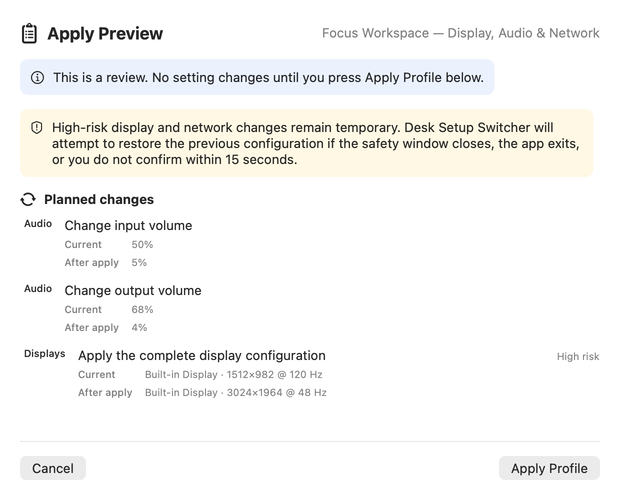
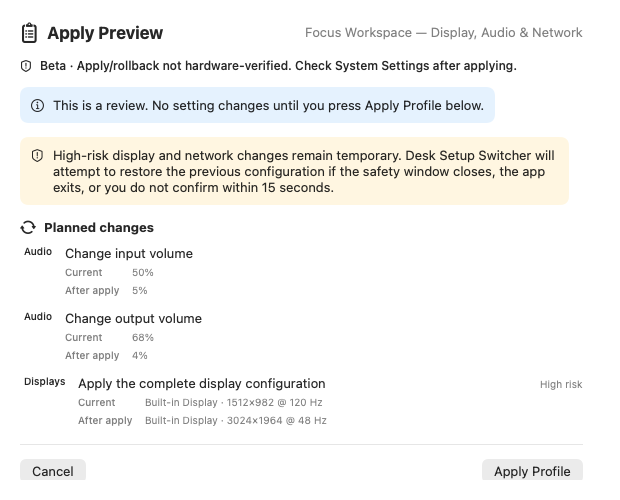
Refresh public media from Apply Preview source

diff --git a/docs/RELEASE-ASSET-PROVENANCE.md b/docs/RELEASE-ASSET-PROVENANCE.md
@@ -6,10 +6,10 @@ DEBUG-only synthetic UI fixtures. No installed personal profile, live Capture,
 Apply, permission request, UI automation, or display/audio/network mutation was
 used to create them.
 
-Capture, Edit, and Review were regenerated on 2026-07-20 from the exact
+Capture, Edit, and Review were regenerated on 2026-07-21 from the exact
 committed application-source tree
-`f27c3f285d21b454cbd7326f704c45f29023048c` (`Harden release storage and
-history audit`). Three filtered DEBUG-only offscreen evidence tests passed: one
+`bc3ec58e2f1f13e3c47be3e879fed957564012cd` (`Simplify and qualify Apply
+Preview flow`). Three filtered DEBUG-only offscreen evidence tests passed: one
 selected English empty-tray fixture, one selected English Display-editor
 fixture, and the three English/Korean Apply Preview fixtures. The evidence
 write paths were enabled only for those runs.
@@ -19,7 +19,7 @@ temporary profile store, no system snapshot adapters, and a confirmation
 closure that performs no action. The logical-size PNGs were visually inspected,
 normalized, and stripped of host ICC and ancillary metadata before being
 retained with their AX records under
-`docs/evidence/public-release-assets/f27c3f2/`. The AX records reject concrete
+`docs/evidence/public-release-assets/bc3ec58/`. The AX records reject concrete
 `/Users/` paths and password text; the retained source set also passed the
 release audit's credential, path, private-network, and device-identity scan.
 These properties establish the data-source boundary; they do not prove
@@ -30,15 +30,16 @@ installed-window behavior, real hardware support, Apply, or rollback.
 The renderer host was an Apple M5 Mac running macOS 26.5.2 (`25F84`). Xcode
 26.6 (`17F113`) was installed; the active `swift` driver reported Apple Swift
 6.3.3. The attached offscreen AppKit/SwiftUI windows were never ordered front.
-Their Retina backing scale produced raw 2× PNGs: `736×520` Capture, `1800×1136`
-Edit, `1240×1000` standard Review, and `1040×720` minimum Review. Those raw
-files retained host Display P3 or sRGB profiles and were not committed.
+The current offscreen renderer produced logical-size raw PNGs: `368×260`
+Capture, `900×568` Edit, `620×500` standard Review, and `520×360` minimum
+Review. Those raw files retained the host display or sRGB profile and were not
+committed; normalization removed that metadata before promotion.
 
 From a clean checkout whose `HEAD` equals the recorded source commit, the three
 DEBUG test invocations were:
 
 ```sh
-test "$(git rev-parse HEAD)" = "f27c3f285d21b454cbd7326f704c45f29023048c"
+test "$(git rev-parse HEAD)" = "bc3ec58e2f1f13e3c47be3e879fed957564012cd"
 
 DESK_SETUP_WRITE_TRAY_EVIDENCE=1 \
 DESK_SETUP_TRAY_EVIDENCE_DIR="$RAW_ROOT/capture" \
@@ -103,13 +104,13 @@ source PNG SHA-256 values in `sources.sha256` exactly.
 | Public asset | Source and transformation | SHA-256 | Synthetic and verification boundary |
 | --- | --- | --- | --- |
[15 lines of base64/hex data omitted]
 
 The public PNG and video normalization was performed with FFmpeg 8.1.2. All
 three screenshots and the video are current deterministic outputs of
@@ -171,7 +172,7 @@ scripts/build-social-preview.sh
 make verify-public-assets
 ```
 
-The first script defaults to the evidence directory pinned to `f27c3f2`. The
+The first script defaults to the evidence directory pinned to `bc3ec58`. The
 verifier requires `ffmpeg`, `ffprobe`, `ruby`, `sips`, `shasum`, and standard
 macOS command-line tools. Missing media prerequisites are failures, not skipped
 checks. It verifies exact geometry, expected alpha, absence of embedded ICC
@@ -184,9 +185,13 @@ checksum manifests are mandatory, must contain exactly their declared files,
 and are checked from their respective base directories.
 
 This automated evidence does not OCR image pixels or certify complete
-accessibility. On 2026-07-20, the three public screenshots and social preview
-were visually compared with their named sources at original resolution; the
-Capture content was centered, Edit remained coherent without unintended
-clipping, and Review exposed its warning, changes, and actions. English and
-Korean AX records were retained, but full VoiceOver certification is excluded
-from the initial public-beta gate and is not claimed.
+accessibility. On 2026-07-21, all five normalized source images were visually
+compared side by side with the preceding pinned sources at matching viewports,
+and the three public screenshots, social preview, and representative demo
+frames were inspected. Capture remained centered, Edit remained coherent
+without unintended clipping, standard Review exposed the Beta boundary,
+warnings, changes, and actions, and minimum-size Korean large text began at the
+top with the rest reachable through the tested scroll sequence. English and
+Korean AX boundary records were retained; offscreen SwiftUI descendants may
+remain collapsed into `AXGroup`, so complete focused-control observation and
+full VoiceOver certification are not claimed.

diff --git a/docs/COMPLETION-CRITERIA.md b/docs/COMPLETION-CRITERIA.md
@@ -16,7 +16,7 @@ This ledger separates the current open-source public-beta candidate from histori
 | Preceding native UI structural audit | [Native UI structural reliability audit](UI-STRUCTURAL-RELIABILITY-AUDIT-2026-07-17.md) records the earlier selective-safe-area boundary, window cancellation/liveness audit, adaptive minimum workflow, focus policy, synthetic evidence, and focused 52-test regression gate |
 | Current integrated local release-controls gate | `make verify` passed on 2026-07-21 with 4,736 deterministic checks/assertions: 507 app checks (183 XCTest cases, 323 default Swift Testing cases across 39 suites, and one isolated native `NSPopover` case in a 40th Swift Testing suite) plus 4,229 release-tooling assertions (351 base release-policy, 659 remote-controls v1 policy/normalizer, 178 remote-controls v2 lifecycle-policy, 69 remote-controls v2 collector, 407 publication-approval policy, 1,106 external-beta/inventory/lineage/template policy, 129 collector-wrapper mock, 71 draft-reconciler mock, 246 artifact-restoration mock, 496 approved-publication mock, 306 legacy-workflow-containment mock, and 211 shell/workflow guard assertions); lint/localization policy; Swift Debug/Release; universal Xcode Debug/Release; Analyze; DMG/checksum; mounted metadata/resources/`x86_64 arm64`; and ad-hoc/no-Developer-ID classification |
 | Current public-history/asset audit | The preceding complete, non-shallow history and tracked image/assets passed the 39-assertion public-release audit for high-confidence credentials, concrete personal home paths, embedded asset metadata, rejected templates in release evidence, and commit/tag author, committer, and tagger email metadata. The audit must be rerun after the current source and regenerated-media commits before it is current evidence. This scoped result does not replace repository-secret settings, pixel OCR, or operator review |
-| Current local public surface | The user-first README, English/Korean guides, profile-schema and adapter-contract references, launch copy, and bilingual static site structure pass their local checks. The tracked screenshot/demo/social-preview set still represents the preceding committed Apply Preview and must be regenerated from the new source commit before the public-surface gate is current again. Project code adds no analytics, client tracking, project-set cookies, account, database, object storage, service binding, or download; disclosed provider operations and two pinned tab-scoped router guards remain part of the hosting boundary |
+| Current local public surface | The user-first README, English/Korean guides, profile-schema and adapter-contract references, launch copy, bilingual static site, and exact-commit screenshot/demo/social-preview set pass `make verify-public-surface`. Project code adds no analytics, client tracking, project-set cookies, account, database, object storage, service binding, or download; disclosed provider operations and two pinned tab-scoped router guards remain part of the hosting boundary |
 | Current public-beta support boundary | The planned initial target is Apple Silicon with a macOS 14.0 deployment target. The current host evidence is Apple Silicon on macOS 26.5.2, not Sonoma runtime evidence; at least one exact-candidate clean lifecycle report on Apple Silicon/macOS 14 Sonoma is required before claiming macOS 14 support. x86_64 cross-build/package evidence is retained only as an unverified convenience slice; physical Intel is not claimed |
 | Current public-beta release boundary | The effective remote tag workflow still exposes an unsigned-publication path. Developer ID + hardened runtime + timestamp, same-candidate signed DMG, accepted notarization, stapling/validation, app-and-DMG Gatekeeper checks, protected release environment, immutable releases, checksum/SBOM/attestation/redownload evidence, itemized clean lifecycle, three external clean installs, zero P0/P1 sign-offs, site deployment/canonical-link verification, remote repository protections, and explicit publication approval remain mandatory and pending |
 | Current remote-controls audit | [Remote release controls audit](REMOTE-RELEASE-CONTROLS-AUDIT-2026-07-18.md) read back the exact unsafe workflow/default-branch SHA, zero tags/Releases/rulesets/environments, empty repository secret/variable name lists, unprotected `master`, disabled immutable releases/private reporting, sole-maintainer reviewer constraint, Actions policy, metadata/support gaps, and a no-tag containment/PR/rollback sequence. Authenticated read-only rechecks on 2026-07-20 and 2026-07-21 confirmed the same remote blockers; they were not configured v2 phase gates, inspected no credential value, and made no remote change |
@@ -161,7 +161,7 @@ No test evidence contains a real SSID, exact location, IP host address, credenti
 - [x] The current integrated local release-controls candidate passed 4,736 non-live deterministic checks/assertions in one `make verify` run on 2026-07-21: 507 app checks (183 XCTest, 323 default Swift Testing cases across 39 suites, and one isolated native popover case in a 40th Swift Testing suite) plus 4,229 release-tooling assertions (351 base release-policy, 659 remote-controls v1 policy/normalizer, 178 remote-controls v2 lifecycle-policy, 69 remote-controls v2 collector, 407 publication-approval policy, 1,106 external-beta/inventory/lineage/template policy, 129 collector-wrapper mock, 71 draft-reconciler mock, 246 artifact-restoration mock, 496 approved-publication mock, 306 legacy-workflow-containment mock, and 211 shell/workflow guard assertions); lint/localization policy, Swift Debug/Release, universal Xcode Debug/Release, Analyze, package/checksum, mounted metadata/resources/architectures, and ad-hoc/no-Developer-ID classification passed.
[1 lines of base64/hex data omitted]
 - [ ] Complete-history/current-asset public-release audit passes locally with 39 synthetic assertions after the source and regenerated-media commits. The preceding audit passed, but it is not current evidence for the new tree. Passing this scoped audit does not replace protected remote settings, secret scanning, pixel OCR, private vulnerability reporting, or operator review.
-- [ ] The bilingual static site, rendered-HTML/privacy assertions, pinned dependency audit, eight-file public-asset manifest, 11-file source/AX evidence manifest, synthetic screenshot/demo/social-preview checks, English/Korean guides, profile schema, adapter contract, launch copy, and provenance record pass for the current source. The preceding pinned media still verifies byte-for-byte but predates the Apply Preview change; regenerate and inspect it from the committed source before checking this row. The exact-Node/locked-install/advisory CI job remains unpushed, and no remote site or canonical URL was created.
+- [x] The bilingual static site, rendered-HTML/privacy assertions, pinned dependency audit, eight-file public-asset manifest, 11-file source/AX evidence manifest, synthetic screenshot/demo/social-preview checks, English/Korean guides, profile schema, adapter contract, launch copy, and provenance record pass for exact committed application source `bc3ec58e2f1f13e3c47be3e879fed957564012cd`. The exact-Node/locked-install/advisory CI job remains unpushed, and no remote site or canonical URL was created.
 - [x] The preceding default unit and mock integration suites passed locally with 215 tests: 112 XCTest and 103 Swift Testing cases; six explicit opt-in cases skipped and no live setting change was part of the run.
 - [x] The preceding header/editor tree's `make lint` and `make build` passed.
[1 lines of base64/hex data omitted]
@@ -194,7 +194,7 @@ No test evidence contains a real SSID, exact location, IP host address, credenti
 - [x] The planned initial public-beta target is Apple Silicon and the deployment target is macOS 14.0. The x86_64 slice is cross-built but physically unverified and unsupported for the initial beta; this build metadata is not Sonoma runtime evidence.
 - [ ] At least one of the three external exact-candidate lifecycle reports passes on Apple Silicon/macOS 14 Sonoma before macOS 14 support is claimed.
 - [x] Full VoiceOver certification is excluded and no VoiceOver claim is made. It is not a public-beta gate; keyboard behavior, accessibility names/values, localizable English/Korean copy, and non-color state cues remain required.
-- [ ] Apply Preview uses one review-to-decision scroll sequence with a localized, non-color text-and-shield Beta status. It states that Apply and rollback are not hardware-verified and asks the user to check System Settings afterward; decision actions follow the review content, Escape remains cancel, and Apply has no default Return shortcut. Check this only after committed source/evidence, synchronized public media, and the synchronized package baseline exist.
+- [x] Apply Preview uses one review-to-decision scroll sequence with a localized, non-color text-and-shield Beta status. It states that Apply and rollback are not hardware-verified and asks the user to check System Settings afterward; decision actions follow the review content, Escape remains cancel, and Apply has no default Return shortcut. Committed source `bc3ec58`, synchronized offscreen/public media, and the verified development-package baseline carry this evidence without claiming hardware execution.
 - [x] Commit `8016f73` adds a strict final-pre-tag remote-controls policy engine, value-free read-only collector, offline ready-state fixtures, and fail-closed mutation/mocked-API coverage. The integrated non-live gate passed 131 policy/normalizer tests with 659 assertions, 79 collector-wrapper assertions, and 81 shell guard assertions; the command remains separate from deterministic `make verify` network execution.
 - [x] Commit `f922434` makes the local signed-candidate workflow retain its exact nine assets in a successful attempt-1 origin run before draft mutation. A separate draft dispatch binds the origin run/artifact ID/archive digest, verifies the exact archive, files, signed candidate, and attestations before mutation, and has deterministic additive-only recovery for exact metadata, byte-identical existing assets, missing-only upload, interruption/resume, and final redownload. Its integrated evidence passed 51 draft-reconciler, 234 artifact-restoration, and 141 shell/workflow guard assertions. This is committed local/mock evidence only; it does not claim a protected credentialed run or remote deployment.
 - [x] The v2 remote-controls lifecycle adds separate `final-pre-tag` and `pre-publication` phases, exact three-workflow/two-environment inventory, exactly two named and distinct successful check runs/jobs from one pinned CI run/check suite, actor and admin-token ownership, manual-record freshness/digests, direct annotated-tag/draft boundaries, and value-free durable evidence. Its 47 policy tests passed 178 assertions and its 14 collector tests passed 69 assertions. The checked-in operational policy remains `configured:false`, so no live `gh` request or remote mutation occurred.
@@ -208,8 +208,8 @@ No test evidence contains a real SSID, exact location, IP host address, credenti
 - [ ] The complete repository/candidate-draft-workflow/CI-workflow/publication-workflow/operator/reviewer/publisher/approval identity is recorded in the authoritative policy, committed with all three workflow anchors, merged to `master`, and exact-commit CI passes; that clean effective commit then passes `make verify-remote-controls` before tag creation, and separate read-only Settings evidence proves the environment administrator-bypass setting.
 - [ ] Protected Developer ID/hardened-runtime/timestamp signing, signed DMG, notarization acceptance, stapling/validation, and app-and-DMG Gatekeeper checks pass on one canonical build with unchanged signed executable, architecture-labelled `arm64` and `x86_64` CodeDirectory hashes, designated requirement, entitlements, and resources.
 - [ ] Checksum, SBOM, all three subject-specific attestation bundles, exact nine-asset redownload verification, protected release environment/secrets, branch/tag protections, immutable releases, and private vulnerability reporting are configured and verified.
-- [ ] The static bilingual site, synthetic demo assets, English/Korean user guidance, profile-schema reference, adapter contract, launch copy, and provenance record are synchronized and locally verified against the current supported capability matrix. The documents and site structure are present, but the public media refresh is pending. Deployment, approved canonical URLs, clean-session link checks, and a bounded manual browser/final bilingual-copy pass remain publication work.
-- [ ] Capture, Edit, and Review synthetic screenshots are regenerated from the exact committed current application-source HEAD, the dependent demo/social assets and both manifests are rebuilt, and visual, privacy, geometry, opacity, profile, ancillary-metadata, and media-format verification passes locally. The currently tracked set comes from `f27c3f285d21b454cbd7326f704c45f29023048c` and predates the Apply Preview change. These remain synthetic offscreen assets, not installed-window or hardware evidence.
+- [x] The static bilingual site, synthetic demo assets, English/Korean user guidance, profile-schema reference, adapter contract, launch copy, and provenance record are synchronized and locally verified against the current supported capability matrix. Deployment, approved canonical URLs, clean-session link checks, and a bounded manual browser/final bilingual-copy pass remain publication work.
+- [x] Capture, Edit, and Review synthetic screenshots were regenerated from exact committed application-source HEAD `bc3ec58e2f1f13e3c47be3e879fed957564012cd`, the dependent demo/social assets and both manifests were rebuilt, and visual, privacy, geometry, opacity, profile, ancillary-metadata, media-format, and unexpected-evidence-tree verification passed locally. These remain synthetic offscreen assets, not installed-window or hardware evidence.
 - [ ] The exact final DMG passes browser download with a real extracted-DMG quarantine attribute, checksum/final-DMG-provenance verification, and Gatekeeper open without Open Anyway.
 - [ ] The exact final candidate passes clean first launch and launch-at-login default-off evidence.
 - [ ] The exact final candidate passes upgrade with schema-1 data/selection/backup/consent preservation.

diff --git a/docs/SUPPORT-MATRIX.md b/docs/SUPPORT-MATRIX.md
@@ -11,7 +11,7 @@
 - **Unsupported:** intentionally omitted; the app reports an item-level reason.
 - **Pending:** implementation or required evidence is incomplete.
 
-“Unit verified,” “mock verified,” and “live-read verified” must never be shortened to “hardware verified.” As of 2026-07-21, **no live setting mutation is hardware verified**. The current integrated local release-controls candidate passed 4,736 non-live deterministic checks/assertions in `make verify`: 507 app checks (183 XCTest + 323 default Swift Testing cases across 39 suites + one isolated native popover case in a 40th Swift Testing suite) plus 4,229 release-tooling assertions (351 base release-policy + 659 remote-controls v1 policy/normalizer + 178 remote-controls v2 lifecycle-policy + 69 remote-controls v2 collector + 407 publication-approval policy + 1,106 external-beta/inventory/lineage/template policy + 129 collector-wrapper mock + 71 draft-reconciler mock + 246 artifact-restoration mock + 496 approved-publication mock + 306 legacy-workflow-containment mock + 211 shell/workflow guard assertions). All build/Analyze stages and unsigned development-package verification passed. The preceding 39-assertion public-history/asset audit must be rerun after the current source and media commits. The DMG was not installed, launched, signed for distribution, or published. The inventory/lineage and external-beta results are synthetic contract tests, not actual history review or tester evidence. The bilingual site and guides remain local; the previously verified synthetic media predates the current Apply Preview and is pending regeneration before the public-surface gate is current again. The earlier P2 pass retains its separate 461-check and 39-fixture/79-artifact evidence. Comprehensive assistive-technology certification is not claimed or required for the public-beta gate; keyboard behavior, accessibility names/values, and non-color cues remain source/test requirements. A separate 2026-07-20 opt-in read-only baseline passed all 506 then-current app cases, including Display, Audio, Network, Input, ConditionContext, and ApplyLivePreparation group/base paths, on Apple Silicon/macOS 26.5.2 without setting mutation. It did not itemize actual ColorSync-profile, input-volume, or exact service-IPv4 field presence/read on that host, so those item-level claims and all apply/rollback paths remain mock-only; TCC, login-at-boot, live Keychain write, and setting mutation also remain unproved.
+“Unit verified,” “mock verified,” and “live-read verified” must never be shortened to “hardware verified.” As of 2026-07-21, **no live setting mutation is hardware verified**. The current integrated local release-controls candidate passed 4,736 non-live deterministic checks/assertions in `make verify`: 507 app checks (183 XCTest + 323 default Swift Testing cases across 39 suites + one isolated native popover case in a 40th Swift Testing suite) plus 4,229 release-tooling assertions (351 base release-policy + 659 remote-controls v1 policy/normalizer + 178 remote-controls v2 lifecycle-policy + 69 remote-controls v2 collector + 407 publication-approval policy + 1,106 external-beta/inventory/lineage/template policy + 129 collector-wrapper mock + 71 draft-reconciler mock + 246 artifact-restoration mock + 496 approved-publication mock + 306 legacy-workflow-containment mock + 211 shell/workflow guard assertions). All build/Analyze stages and unsigned development-package verification passed. The current bilingual site, guides, and exact-commit synthetic media pass the local public-surface gate. The preceding 39-assertion public-history/asset audit must still be rerun after the media commit. The DMG was not installed, launched, signed for distribution, or published. The inventory/lineage and external-beta results are synthetic contract tests, not actual history review or tester evidence. The earlier P2 pass retains its separate 461-check and 39-fixture/79-artifact evidence. Comprehensive assistive-technology certification is not claimed or required for the public-beta gate; keyboard behavior, accessibility names/values, and non-color cues remain source/test requirements. A separate 2026-07-20 opt-in read-only baseline passed all 506 then-current app cases, including Display, Audio, Network, Input, ConditionContext, and ApplyLivePreparation group/base paths, on Apple Silicon/macOS 26.5.2 without setting mutation. It did not itemize actual ColorSync-profile, input-volume, or exact service-IPv4 field presence/read on that host, so those item-level claims and all apply/rollback paths remain mock-only; TCC, login-at-boot, live Keychain write, and setting mutation also remain unproved.
 
 ## Tray Surface v2 evidence
 
@@ -79,7 +79,7 @@
 | Release signing identity inventory | The synthetic import lifecycle requires exactly one valid codesigning identity in the ephemeral Keychain and an exact match to the reviewed Developer ID Application label; extra-valid, missing-match, and malformed-count inventories fail closed and remove the temporary signing directory | This is deterministic mock evidence only. No real certificate, Developer ID identity, or credentialed signing run was used |
 
 | Approval-bound publication | A closed-schema approval validator and exact-ID publisher passed 407 policy and 496 publisher mock assertions. The helper verifies A→B direct history and exact evidence bytes, fresh remote-controls/Settings evidence, actor and token owner, approval chronology, exact candidate/draft/nine assets/attestations/tag, both named approval-commit CI jobs with distinct integer identities, and immutable-release state immediately before permitting one exact `draft:false`, `prerelease:true`, `make_latest:false` PATCH, then re-downloads the public Release and all assets | The workflow is unpushed, unconfigured, and unrun. Any `HUP`, `INT`, `QUIT`, `TERM`, cancellation, host loss, incomplete log, or ordinary failure after a PATCH attempt is explicitly incident-only, not retry evidence. No Release was changed or published |
-| Local public surface | User-first README, English/Korean guides, schema/adapter references, launch copy, and bilingual static site structure are present. The tracked screenshots, silent captioned demo, deterministic social preview, and manifests still verify as the prior `f27c3f285d21b454cbd7326f704c45f29023048c` set, but they predate the current Apply Preview and are pending regeneration from its committed source | The tracked closed-schema launch state remains `holding` with no download URL. Project code adds no analytics, client tracking, project-set cookies, account, database, object storage, service binding, or download. Hosting-provider operations and two pinned tab-scoped router guards are disclosed. The CI change is unpushed; current-source asset verification, deployment, clean-link verification, and final manual browser/copy review remain pending |
+| Local public surface | User-first README, English/Korean guides, schema/adapter references, launch copy, bilingual static site, and three synthetic screenshots regenerated from exact committed source `bc3ec58e2f1f13e3c47be3e879fed957564012cd` pass `make verify-public-surface`. The rebuilt silent bilingual-captioned demo and deterministic social preview are pinned by eight-file public and 11-file source/AX manifests; public PNGs are opaque, profile-free, and critical-chunk-only, and unexpected source-evidence files now fail verification | The tracked closed-schema launch state remains `holding` with no download URL. Project code adds no analytics, client tracking, project-set cookies, account, database, object storage, service binding, or download. Hosting-provider operations and two pinned tab-scoped router guards are disclosed. The CI change is unpushed; deployment, clean-link verification, and final manual browser/copy review remain pending |
 | Planned beta hardware | Apple Silicon with a macOS 14.0 deployment target | Current runtime evidence is Apple Silicon/macOS 26.5.2. One of the three exact-candidate external lifecycle reports must pass on Apple Silicon/macOS 14 Sonoma before that support claim is made. The x86_64 convenience slice is cross-built but physically unverified; Intel is not initially supported |
 | Accessibility boundary | Localizable English/Korean copy, keyboard behavior, accessibility names/values, and non-color cues remain required | Full VoiceOver certification is explicitly excluded and is not a publication gate or a claimed capability |
 | Canonical release pipeline | Developer ID, hardened runtime, timestamp, signed DMG, accepted notarization, staple/validation, app-and-DMG Gatekeeper checks, checksum, SBOM, provenance/attestation, and redownload verification are mandatory | Protected release environment/secrets, remote repository settings, private vulnerability reporting, canonical site/release publication, three external clean-install beta reports, and explicit publication approval remain pending |

diff --git a/CHANGELOG.md b/CHANGELOG.md
@@ -12,7 +12,7 @@ All notable changes will be documented here. The project follows Keep a Changelo
 - A dedicated public-surface verification command and CI job that install the lockfile-pinned site graph with lifecycle scripts disabled, check dependency advisories, render and test both holding and canonical-download states, rebuild the tracked state, and verify every declared public/source release asset without deploying anything. One closed-schema record controls release rendering and accepts only the exact `v0.1.0` GitHub Release URL; a separate strict record binds the approved production origin.
 - A user-first public surface for the bounded **Capture → Edit → Review & Apply** flow: rewritten root README, English/Korean user guides, profile-schema and adapter-contract references, launch copy, and a public-surface readiness audit.
 - A locally verified bilingual static demo site with no project analytics, client tracking, project-set cookies, account, database, object storage, or download; the disabled release state remains in place until the complete maintainer-approved distribution gate passes.
-- A provenance-reviewed pipeline for synthetic Capture, Edit, and Review screenshots, a silent captioned 37-second demo, deterministic social preview, mandatory eight-file public and 11-file source/AX checksum manifests, and critical-PNG-chunk, metadata, stream, caption, and sensitive-string verification. The tracked media still comes from committed source `f27c3f285d21b454cbd7326f704c45f29023048c` and must be regenerated after the current Apply Preview source is committed.
+- Provenance-reviewed synthetic Capture, Edit, and Review screenshots regenerated from exact committed application source `bc3ec58e2f1f13e3c47be3e879fed957564012cd`; a rebuilt silent captioned 37-second demo and deterministic social preview; mandatory eight-file public and 11-file source/AX checksum manifests; critical-PNG-chunk, metadata, stream, caption, sensitive-string, and unexpected-evidence-tree verification; and complete source/transformation/licensing records. The Review media and bilingual captions expose the Beta hardware-verification boundary without claiming Apply or rollback execution.
 - A public-release history and asset audit that rejects shallow/incomplete or replacement/grafted history, high-confidence credential patterns, concrete personal home paths, sensitive metadata in historical image/icon blobs, and disallowed commit/tag author, committer, or tagger email metadata without printing identity values. Annotated-tag traversal starts at every ref and follows nested tag objects. Already-public legacy identity metadata is not rewritten and passes only through a reviewed exact-commit-ID allowlist containing no names or addresses; every other commit and annotated tag, including synthetic fixtures, requires a GitHub noreply identity. The unpushed local CI definition is configured to run the same audit with full history.
 - Descriptor-bound profile storage/import file access with validated filenames, owner/type/size checks, symlink and non-regular-file rejection, identity-stable reads, and identity-bound permission changes and quarantine. Managed writes now keep staging, commit, rollback, cleanup, and directory sync relative to one verified parent-directory descriptor; use exclusive rename for a missing destination and atomic swap plus guarded rollback for an existing destination; and deterministically cover ancestor, regular-leaf, and symlink-leaf replacement races without following or deleting the displaced object.
 - Public-beta policy and community surfaces covering support, governance, compatibility, security reporting, contribution, privacy, initial Apple Silicon scope, internal-only Swift library products, and the release authority boundary.

diff --git a/docs/ASSET-LICENSES.md b/docs/ASSET-LICENSES.md
@@ -7,7 +7,7 @@
 | `Assets/AppIcon.svg` | Original project artwork by GGULBAE contributors | 2026-07-11 | MIT | Monitor, desk, and manual switch controls drawn as original vector geometry; no third-party asset or logo |
 | `Assets/AppIcon.icns` | Mechanically rendered from `AppIcon.svg` | 2026-07-11 | MIT | Generated by `scripts/generate-app-icon.sh` using macOS `sips` and `iconutil` |
 | `site/public/app-icon.svg` | Exact public-site copy of `Assets/AppIcon.svg` | 2026-07-18 | MIT | Byte identity is enforced by `scripts/verify-public-assets.sh` |
-| `docs/evidence/public-release-assets/f27c3f2/` | Synthetic Capture, Edit, and Apply Preview fixtures plus AX boundary records generated by three DEBUG-only offscreen evidence tests from exact source commit `f27c3f285d21b454cbd7326f704c45f29023048c`; host metadata mechanically removed | 2026-07-20 | MIT project content; Apple platform terms for in-context SF Symbols | Five English/Korean standard/minimum PNG/AX pairs; no concrete home path or embedded profile; Capture, save, Apply, and rollback were not run |
+| `docs/evidence/public-release-assets/bc3ec58/` | Synthetic Capture, Edit, and Apply Preview fixtures plus AX boundary records generated by three DEBUG-only offscreen evidence tests from exact source commit `bc3ec58e2f1f13e3c47be3e879fed957564012cd`; host metadata mechanically removed | 2026-07-21 | MIT project content; Apple platform terms for in-context SF Symbols | Five English/Korean standard/minimum PNG/AX pairs; no concrete home path or embedded profile; Capture, save, Apply, and rollback were not run |
 | `site/public/screenshots/capture.png` | Mechanically normalized from the exact-commit English empty-tray synthetic fixture | 2026-07-20 | MIT project content; Apple platform terms for in-context SF Symbols | Opaque, profile-free `368×260` derivative with only critical PNG chunks; Capture was not invoked |
 | `site/public/screenshots/edit.png` | Mechanically normalized from the exact-commit English Display-editor synthetic fixture | 2026-07-20 | MIT project content; Apple platform terms for in-context SF Symbols | Opaque, profile-free `900×568` derivative with only critical PNG chunks; no save or hardware operation occurred |
 | `site/public/screenshots/review.png` | Mechanically normalized from the exact-commit English initial Apply Preview synthetic fixture | 2026-07-20 | MIT project content; Apple platform terms for in-context SF Symbols | Opaque, profile-free `620×500` derivative with only critical PNG chunks; wording promises a rollback attempt, not a guarantee; Apply and rollback were not run |

diff --git a/docs/ROADMAP.md b/docs/ROADMAP.md
@@ -248,7 +248,7 @@ Baseline completed locally:
 - Fail closed on missing/non-integral profile schema versions, nil included ColorSync values, and snapshot capability-group mismatches without blocking unrelated snapshot groups. Preserve only the explicit schema 0→1 migration.
 - Remove runtime coordinate collection/cache and its Settings refresh surface. Location authorization now exists only to read the current Wi-Fi SSID during an explicit Capture; imported location conditions remain dormant schema data.
 - Keep the final Apply decision honest without complicating the flow: Apply Preview uses one review-to-decision scroll sequence with a localized text-and-shield Beta status stating that Apply and rollback are not hardware-verified and that users must check System Settings afterward. Decision actions follow the review content, Escape remains the cancel shortcut, and Apply is not a default Return-key action.
-- Prepare the user-facing public surface locally: rewritten README, English/Korean user guides, profile-schema and adapter-contract references, launch copy, bilingual static site, and an exact-commit public-media pipeline. The currently tracked Capture/Edit/Review screenshots, silent captioned demo, deterministic social preview, eight-file public manifest, 11-file source/AX manifest, and provenance still bind source `f27c3f285d21b454cbd7326f704c45f29023048c`; regenerate them from the committed Apply Preview source before marking the current surface synchronized.
+- Prepare the user-facing public surface locally: rewritten README, English/Korean user guides, profile-schema and adapter-contract references, launch copy, bilingual static site, and public media regenerated from exact committed application source `bc3ec58e2f1f13e3c47be3e879fed957564012cd`. The Capture/Edit/Review screenshots, silent bilingual-captioned demo, deterministic social preview, eight-file public manifest, 11-file source/AX manifest, and asset provenance are synchronized and locally verified; superseded unmanifested evidence was removed and the verifier now rejects unexpected source-evidence files.
 - Verify the site's privacy boundary locally: no project analytics, client tracking, project-set cookies, account, database, object storage, service binding, or download; disclose hosting-provider aggregate operations and the two pinned tab-scoped vinext router guards instead of claiming that no provider processing exists.
 - Keep the holding site and its provenance-reviewed media in a dedicated CI gate: exact Node version, lockfile-only install with lifecycle scripts disabled, dependency-advisory audit, site build/lint/rendered-output tests, and complete public/source asset verification. The job is prepared locally and remains unpushed/unproven on the effective default branch.
 - Keep the site renderer's launch switch data-only: closed-schema tracked metadata permits only `holding` with no release URL or `published` with the exact canonical `v0.1.0` GitHub Release URL. The immutable Release notes are self-contained and reject branch-lifecycle document links. The broader launch uses a locally pre-reviewed, unpushed public-copy finalization patch only after the Release is visibly public; it synchronizes both publication records, README, the English/Korean guide index and guides, PRIVACY, SUPPORT-MATRIX, SECURITY, SUPPORT, and required status records without component-code changes. Its review tree and protected-merge tree must match, and the exact two CI jobs must pass on both the review head and final `master` SHA before deployment. A deterministic closed-schema gate exercises valid holding/published fixtures and rejects stale, negated, one-language, wrong/mixed/general/direct-asset URL, unsafe CTA, or disabled-private-reporting copy across nine public surfaces. The tracked state remains `holding` and nothing was deployed.